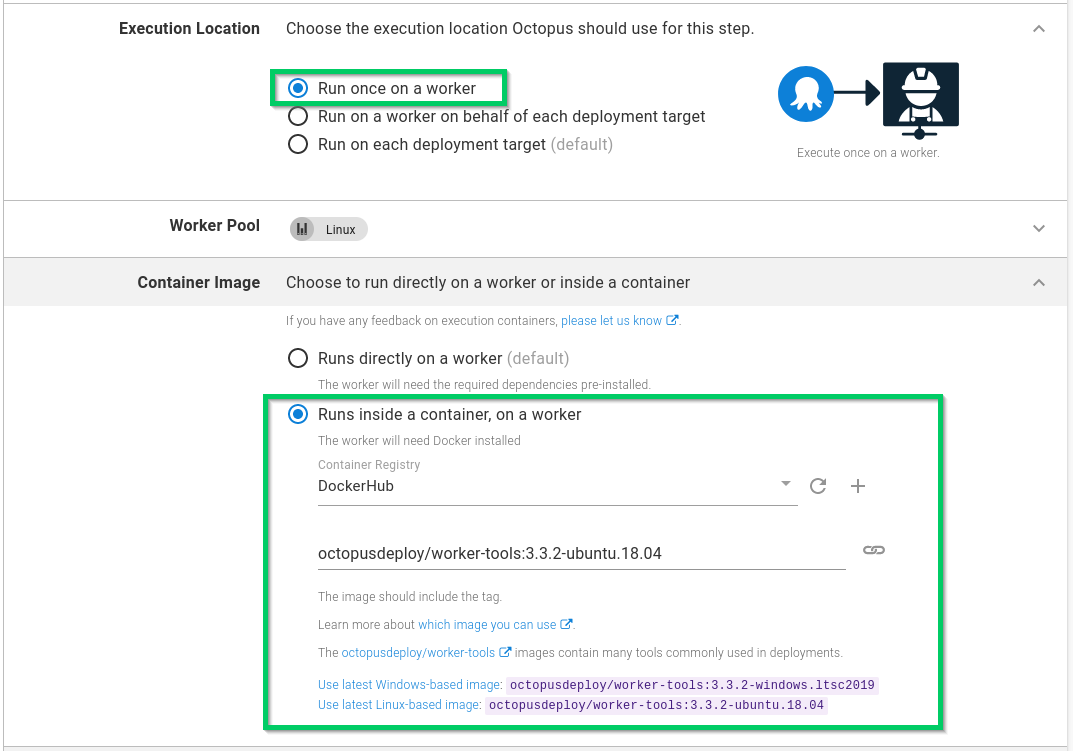
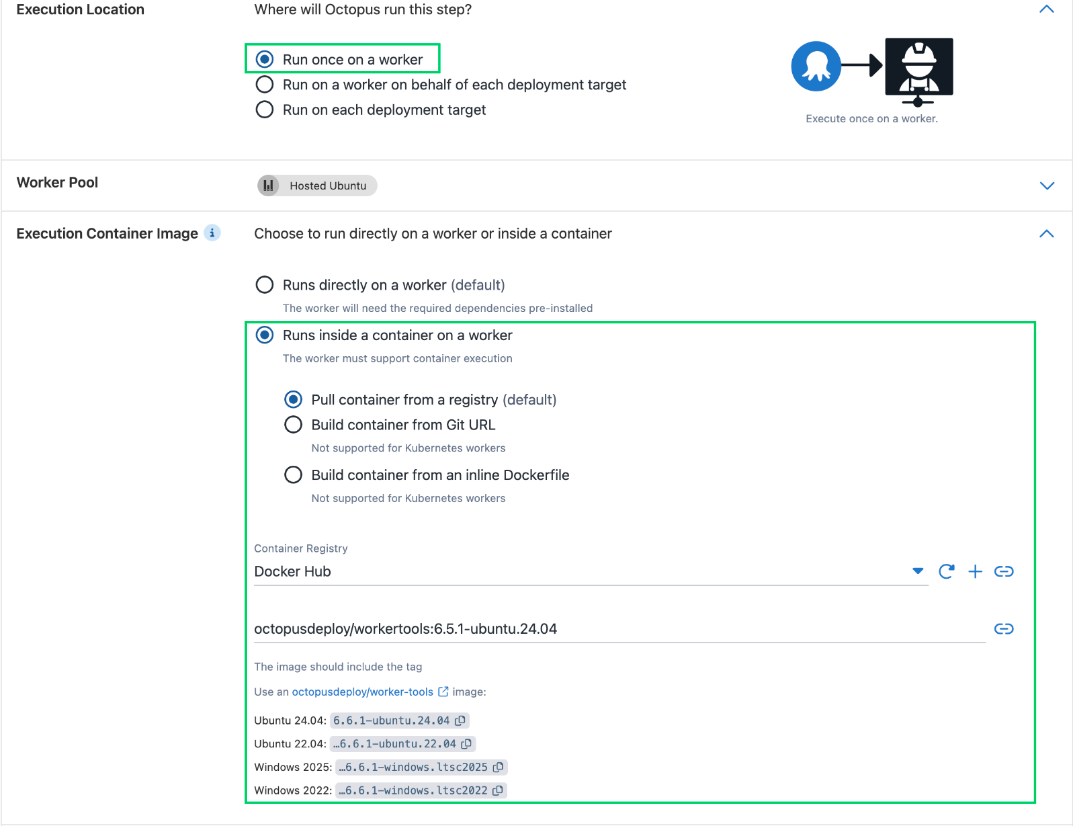
Update Worker Tools docs (#3199)
* Update Worker Tools docs

* Fix linting

* Generate image set

---------

Pull request: Update Worker Tools docs
Updates docs and images to reflect most recent WorkerTools details

diff --git a/src/pages/docs/infrastructure/workers/worker-tools-versioning-and-caching.md b/src/pages/docs/infrastructure/workers/worker-tools-versioning-and-caching.md
@@ -1,7 +1,7 @@
 ---
 layout: src/layouts/Default.astro
 pubDate: 2023-01-01
-modDate: 2026-01-14
+modDate: 2026-06-04
 title: Worker Tools, Versioning and Caching
 description: How Octopus creates, versions, caches, and releases the worker-tools Docker images for use with the execution containers for workers feature.
 navOrder: 50
@@ -13,11 +13,16 @@ Worker Tools are a set of Docker images used as [execution containers for worker
 
 Worker Tool images follow a semantic versioning (SemVer) approach of `Major.Minor.Patch-Distro` for their tag format. When we release a new version of Worker Tools to the [Worker Tools Docker Hub repository](https://hub.docker.com/r/octopusdeploy/worker-tools/tags), we also add the following image tags, distribution (`ubuntu.22.04` or `windows.ltsc2022`), `Major-Distro` (e.g. `3-Distro`) and `Major.Minor-Distro` (`3.3-Distro`). We recommend using the fully qualified SemVer as patch updates of Worker Tools could result in an updated tool dependency introducing a breaking change.
 
-The Worker Tools Dockerfiles use a combination of tools pinned to specific versions, such as CLI tools and Frameworks, while other tools pull their latest available release. For Ubuntu, these are pulled with apt-get, and for Windows, chocolatey. You can find the full details of these tools in the Docker files for [Windows](https://github.com/OctopusDeploy/WorkerTools/blob/master/windows.ltsc2022/Dockerfile) and [Ubuntu](https://github.com/OctopusDeploy/WorkerTools/blob/master/ubuntu.22.04/Dockerfile) Worker Tools.
+The Worker Tools Dockerfiles use a combination of tools pinned to specific versions, such as CLI tools and Frameworks, while other tools pull their latest available release. For Ubuntu, these are pulled with apt-get, and for Windows, chocolatey. You can find the full details of these tools in the Docker files for
+
+- [Windows 2022](https://github.com/OctopusDeploy/WorkerTools/blob/main/windows.ltsc2022/Dockerfile)
+- [Windows 2025](https://github.com/OctopusDeploy/WorkerTools/blob/main/windows.ltsc2025/Dockerfile)
+- [Ubuntu 22.04](https://github.com/OctopusDeploy/WorkerTools/blob/main/ubuntu.22.04/Dockerfile)
+- [Ubuntu 24.04](https://github.com/OctopusDeploy/WorkerTools/blob/main/ubuntu.24.04/Dockerfile)
 
 The tools pulling their latest releases for Ubuntu include `wget`, `python3-pip`, `groff`, `unzip`, `apt-utils`, `curl`, `software-properties-common`, `jq`, `yq`, `openssh-client`, `rsync`, `git`, `augeas-tools`, `maven`, `gradle`, `Node 14`, `istioctl`, `linkerd`, `umoci`.
 
-For Windows these include `chocolatey` and `dotnet 6.0.*`.
+For Windows these include `chocolatey` and `dotnet 10.0.*` and `dotnet 8.0.*`.
 
 If your steps depend on any of these packages, we recommend you target the fully qualified SemVer of Worker Tools. Otherwise, our additional Worker Tools tags may be suitable for your use case. We version our releases as follows:
 
@@ -37,7 +42,7 @@ Patch update
 - Update of a pinned tools Patch version
 - Any new release, the latest tools will be updated automatically
 
-In short, we recommend using the full `octopusdeploy/worker-tools:Major.Minor.Patch-Distro` tag format. Depending on your use case, the latest releases, `octopusdeploy/worker-tools:ubuntu.22.04` and `octopusdeploy/worker-tools:windows.ltsc2022` respectively or `octopusdeploy/worker-tools:Major-distro`, `octopusdeploy/worker-tools:Major.Minor-Distro` may be suitable for you.
+In short, we recommend using the full `octopusdeploy/worker-tools:Major.Minor.Patch-Distro` tag format. Depending on your use case, the latest releases, `octopusdeploy/worker-tools:ubuntu.24.04` and `octopusdeploy/worker-tools:windows.ltsc2025` respectively or `octopusdeploy/worker-tools:Major-distro`, `octopusdeploy/worker-tools:Major.Minor-Distro` may be suitable for you.
 
 ## Caching Worker Tools
 